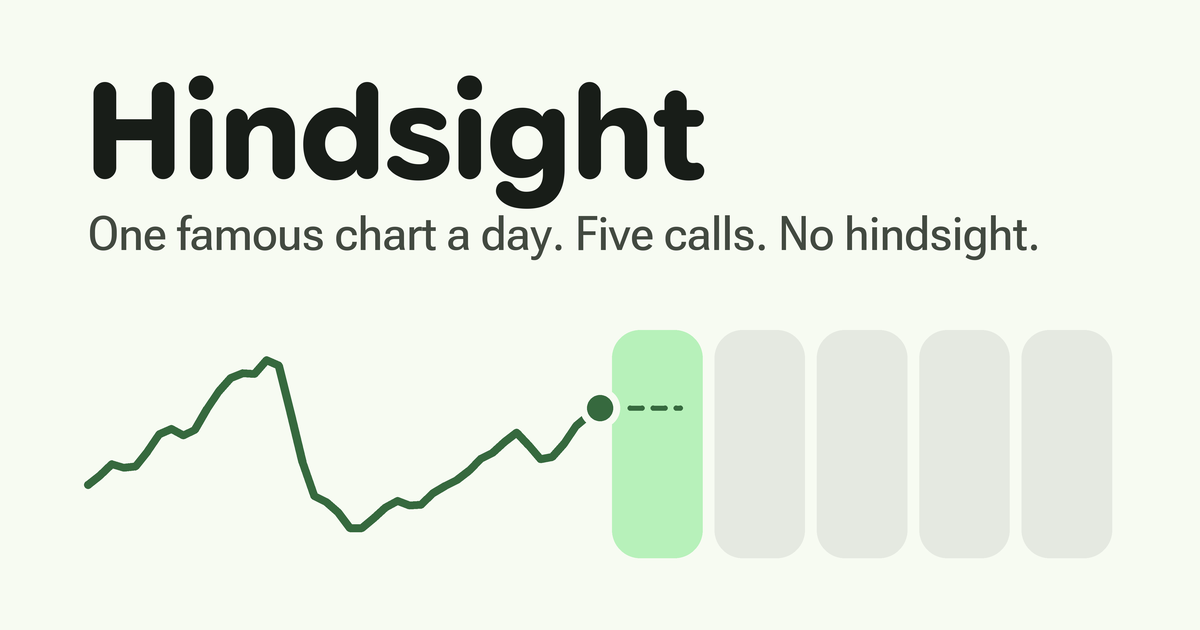
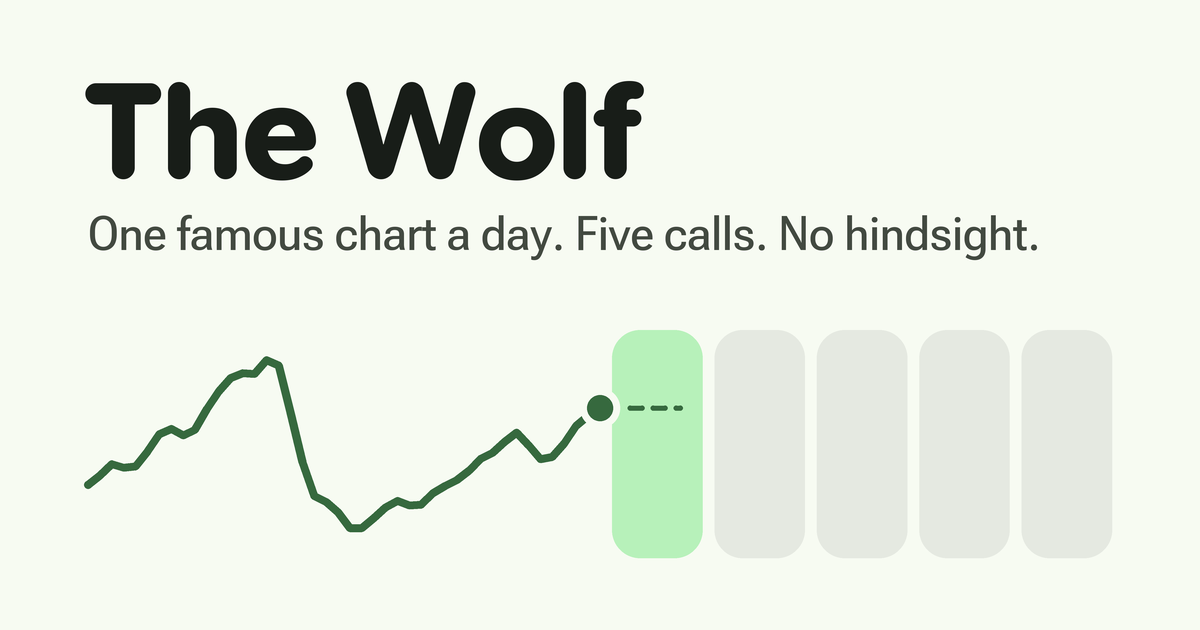
Rename Hindsight to The Wolf
The game is now called The Wolf: the name in the app, share text, favicon,
manifest and link-preview image, plus the server names (thewolf user,
thewolf@ unit, /srv/thewolf, /etc/thewolf) and the example domain.

The "In hindsight: a year later it was" reveal line keeps its wording; it is
a phrase, not the name.

Changed region(s): [[0.0617, 0.1206, 0.5858, 0.3317]]

diff --git a/src/lib/game/share.test.ts b/src/lib/game/share.test.ts
@@ -21,17 +21,17 @@ describe('buildShareText', () => {
 		const text = buildShareText({ puzzleNumber: 12, calls: playGame(CONTRARIAN_GAME) });
 		expect(text).toBe(
 			[
-				'Hindsight #12 · $100 → $146',
+				'The Wolf #12 · $100 → $146',
 				'🟩⭐⭐🟥🟥',
 				'🙃 The Contrarian',
-				'https://hindsight.example'
+				'https://thewolf.example'
 			].join('\n')
 		);
 	});
 
 	it('puts the result on the first line, for lock-screen previews', () => {
 		const text = buildShareText({ puzzleNumber: 12, calls: playGame(CONTRARIAN_GAME) });
-		expect(text.split('\n')[0]).toMatch(/^Hindsight #12 · \$100 → \$146$/);
+		expect(text.split('\n')[0]).toMatch(/^The Wolf #12 · \$100 → \$146$/);
 	});
 
 	it('uses the configured name and URL by default', () => {
@@ -72,12 +72,12 @@ describe('buildShareText', () => {
 	it('shows big balances in whole dollars with thousands separators', () => {
 		const text = buildShareText({ puzzleNumber: 1, calls: playGame(Array(5).fill([50, W, 0])) });
 		// $1,048.57 on the books, $1,049 on screen.
-		expect(text.split('\n')[0]).toBe('Hindsight #1 · $100 → $1,049');
+		expect(text.split('\n')[0]).toBe('The Wolf #1 · $100 → $1,049');
 	});
 
 	it('handles an unfinished game', () => {
 		const text = buildShareText({ puzzleNumber: 2, calls: playGame(CONTRARIAN_GAME.slice(0, 2)) });
-		expect(text.split('\n').slice(0, 2)).toEqual(['Hindsight #2 · $100 → $141', '🟩⭐']);
+		expect(text.split('\n').slice(0, 2)).toEqual(['The Wolf #2 · $100 → $141', '🟩⭐']);
 	});
 
 	it('rejects games it cannot describe', () => {

diff --git a/src/lib/game/share.ts b/src/lib/game/share.ts
@@ -1,10 +1,10 @@
 /**
  * The share text. Wordle is the benchmark: one row a stranger reads at a glance.
  *
- *   Hindsight #12 · $100 → $146
+ *   The Wolf #12 · $100 → $146
  *   🟩⭐⭐🟥🟥
  *   🙃 The Contrarian
- *   https://hindsight.example
+ *   https://thewolf.example
  *
  * One square per call: 🟩 right, 🟥 wrong, ⭐ right while most players called it the other way.
  * Green and red need no legend, and a star reads as "a standout right call" without one (unlike

diff --git a/src/lib/game/config.ts b/src/lib/game/config.ts
@@ -6,10 +6,10 @@
  */
 
 /** Working name. Change it here and everywhere follows. */
-export const GAME_NAME = 'Hindsight';
+export const GAME_NAME = 'The Wolf';
 
 /** Placeholder until the domain is decided. Used by the share text. */
-export const SITE_URL = 'https://hindsight.example';
+export const SITE_URL = 'https://thewolf.example';
 
 /** Every game starts with $100. */
 export const START_BALANCE_CENTS = 10_000;

diff --git a/src/routes/+page.svelte b/src/routes/+page.svelte
@@ -28,8 +28,8 @@
 		if (view.results.length > 0) return;
 		let seen = true;
 		try {
-			seen = localStorage.getItem('hindsight:seen-help') === '1';
-			localStorage.setItem('hindsight:seen-help', '1');
+			seen = localStorage.getItem('thewolf:seen-help') === '1';
+			localStorage.setItem('thewolf:seen-help', '1');
 		} catch {
 			// Storage blocked: skip the auto-open rather than nag on every visit.
 		}

diff --git a/README.md b/README.md
@@ -1,4 +1,4 @@
-# Hindsight (working name)
+# The Wolf (working name)
 
 One famous market chart a day, hidden. Five up-or-down calls with real stakes. Then the unmasking.
 
@@ -47,15 +47,15 @@ One Vultr Ubuntu server runs two copies of the app behind Caddy: **prod** (the l
 | `ci.yml` | Every PR and push to `main`       | Type check, lint, tests and build. On `main`, deploys to prod when `DEPLOY_ENABLED` is `true`.                                                                                                                                                                                                                           |
 | `pr.yml` | Every push to a PR from this repo | Deploys the PR to the preview (when `PREVIEW_ENABLED` is `true`), or else smoke-tests it in CI. Either way, when the PR changes migrations or the schema, it first forks the prod database and runs the PR's migrations on the fork. The preview keeps its fork between deploys; CI forks are deleted when the run ends. |
 
-A deploy builds in CI, migrates the prod database (migrations only add, so the running version keeps working), copies `build/` to `/srv/hindsight/<slot>/releases/<id>`, switches the `current` symlink, restarts `hindsight@<slot>`, and rolls back if it doesn't answer within 30 seconds. The build bundles every dependency, so the server needs Node and nothing else.
+A deploy builds in CI, migrates the prod database (migrations only add, so the running version keeps working), copies `build/` to `/srv/thewolf/<slot>/releases/<id>`, switches the `current` symlink, restarts `thewolf@<slot>`, and rolls back if it doesn't answer within 30 seconds. The build bundles every dependency, so the server needs Node and nothing else.
 
 ### Databases
 
-|          | Used by                            | Made by                                                                                            |
-| -------- | ---------------------------------- | -------------------------------------------------------------------------------------------------- |
-| prod     | the server and the deploy job only | the existing Tiger service                                                                         |
-| dev      | everyone's local `.env`            | `tiger service fork <prod-id> --name hindsight-dev` once, then refork whenever you want fresh data |
-| PR forks | `pr.yml`                           | the `timescale/fork-service` action, deleted automatically                                         |
+|          | Used by                            | Made by                                                                                          |
+| -------- | ---------------------------------- | ------------------------------------------------------------------------------------------------ |
+| prod     | the server and the deploy job only | the existing Tiger service                                                                       |
+| dev      | everyone's local `.env`            | `tiger service fork <prod-id> --name thewolf-dev` once, then refork whenever you want fresh data |
+| PR forks | `pr.yml`                           | the `timescale/fork-service` action, deleted automatically                                       |
 
 Forks are copies: nothing done on dev or a PR fork reaches prod. Our Tiger account runs on the MLH hackathon offer ($1,000 of credits for 30 days), so the services are standard ones: a fork is a backup restore that takes several minutes and bills against the credits. That's why forks only happen when a PR changes the database, and why the preview keeps its fork until it needs a new one (or you run the PR workflow by hand with "Fresh database"). The credits run out 30 days after sign-up; a standard service can't be forked into a free one, so moving to the free tier afterwards means a dump and restore. Seeding the private catalog stays a deliberate manual step: `DATABASE_URL=<prod> node scripts/seed-puzzles.ts`.
 
@@ -64,10 +64,10 @@ Forks are copies: nothing done on dev or a PR fork reaches prod. Our Tiger accou
 On the server (Ubuntu, as root):
 
 1. Install Node 26 and Caddy.
-2. Users and folders: `useradd --system hindsight`, `useradd --create-home deploy`, then `mkdir -p /srv/hindsight/{prod,preview}/{releases,shared}` owned by `deploy`, readable by `hindsight`.
-3. `/etc/hindsight/prod.env` and `/etc/hindsight/preview.env` from `deploy/slot.env.example` (mode 600).
-4. `deploy/hindsight@.service` → `/etc/systemd/system/`, then `systemctl daemon-reload && systemctl enable hindsight@prod hindsight@preview`.
-5. `deploy/sudoers.example` → `/etc/sudoers.d/hindsight-deploy` (lets `deploy` restart the app and nothing else).
+2. Users and folders: `useradd --system thewolf`, `useradd --create-home deploy`, then `mkdir -p /srv/thewolf/{prod,preview}/{releases,shared}` owned by `deploy`, readable by `thewolf`.
+3. `/etc/thewolf/prod.env` and `/etc/thewolf/preview.env` from `deploy/slot.env.example` (mode 600).
+4. `deploy/thewolf@.service` → `/etc/systemd/system/`, then `systemctl daemon-reload && systemctl enable thewolf@prod thewolf@preview`.
+5. `deploy/sudoers.example` → `/etc/sudoers.d/thewolf-deploy` (lets `deploy` restart the app and nothing else).
 6. `deploy/Caddyfile.example` → `/etc/caddy/Caddyfile` with the real domains; DNS A records for both names point at the server.
 7. An SSH key pair for CI: the public half in `/home/deploy/.ssh/authorized_keys`.
 
@@ -85,4 +85,4 @@ In GitHub (Settings → Secrets and variables → Actions; environments `product
 | `DEPLOY_ENABLED`, `PREVIEW_ENABLED`              | variables            | `true` to switch each on                                                          |
 | `TIGER_FORK_CPU_MILLIS`, `TIGER_FORK_MEMORY_GBS` | variables (optional) | size of PR and preview forks; blank means the same as prod, smaller saves credits |
 
-Until those are set, the workflows only run the checks. Roll back by hand: `ln -sfn /srv/hindsight/prod/releases/<older> /srv/hindsight/prod/current && sudo systemctl restart hindsight@prod`.
+Until those are set, the workflows only run the checks. Roll back by hand: `ln -sfn /srv/thewolf/prod/releases/<older> /srv/thewolf/prod/current && sudo systemctl restart thewolf@prod`.

diff --git a/docs/decisions.md b/docs/decisions.md
@@ -78,7 +78,7 @@ Choices made while building, with the reason for each. Newest at the bottom of e
 
 - **Show the crowd as people, not percentages,** while it is small: "3 of 4 players called down." Over 20 players it switches to a percentage. "You're one of the first" now only appears when you really are first.
 - **Prices at the reveal are as quoted on the day.** Prices stay stored split-adjusted (product.md), but a small `splits` table lets the reveal undo later splits, so GameStop peaks at $348 like everyone remembers, not $87.
-- **"In hindsight": where the stock was a year later**, read with TimescaleDB's `last()` over the prices hypertable. It gives the name its payoff and costs 0.13 ms.
+- **"In hindsight": where the stock was a year later**, read with TimescaleDB's `last()` over the prices hypertable. It shows how the story played out and costs 0.13 ms.
 - **The fifth call gets its own beat** (1.8 s) before the ending takes over; the playtester missed their biggest bet's result.
 - **Each settled stretch keeps a faint dashed line at its starting level,** so a V-shaped stretch that ends lower reads as down at a glance.
 - **The prompt names the stretch length** ("Up or down over the next 2 trading days?"), so +353% in one call makes sense.
